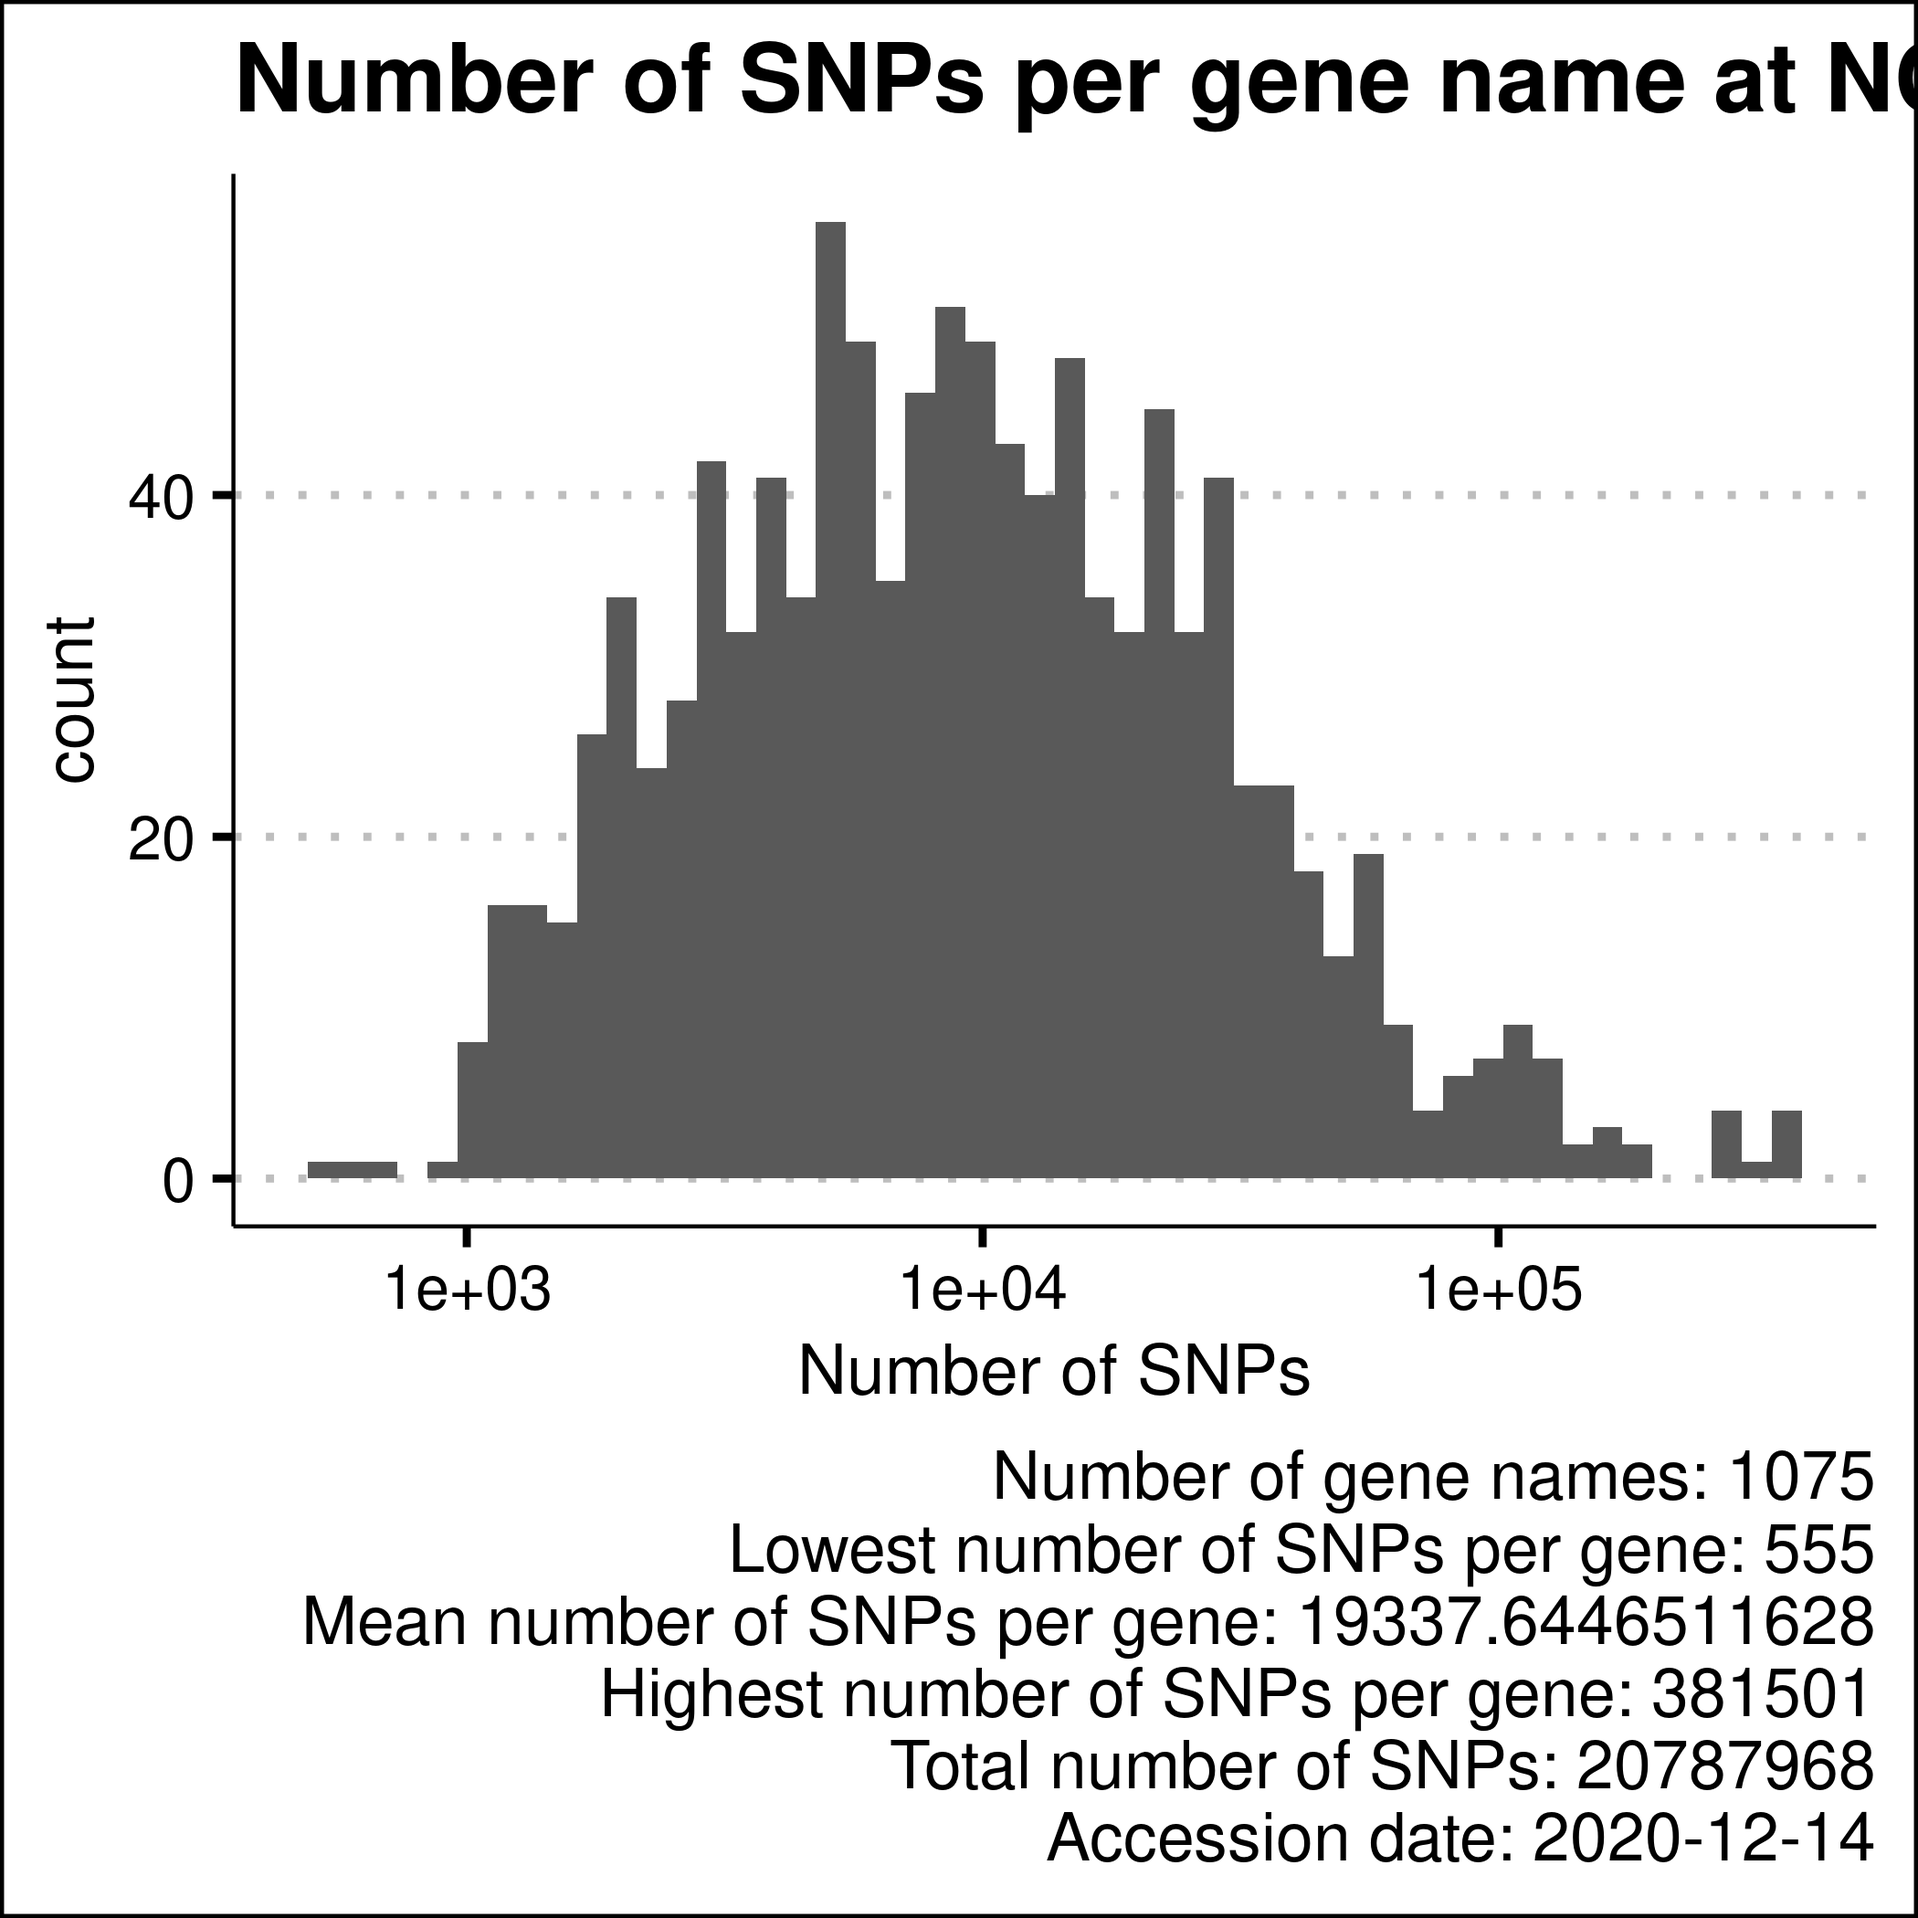
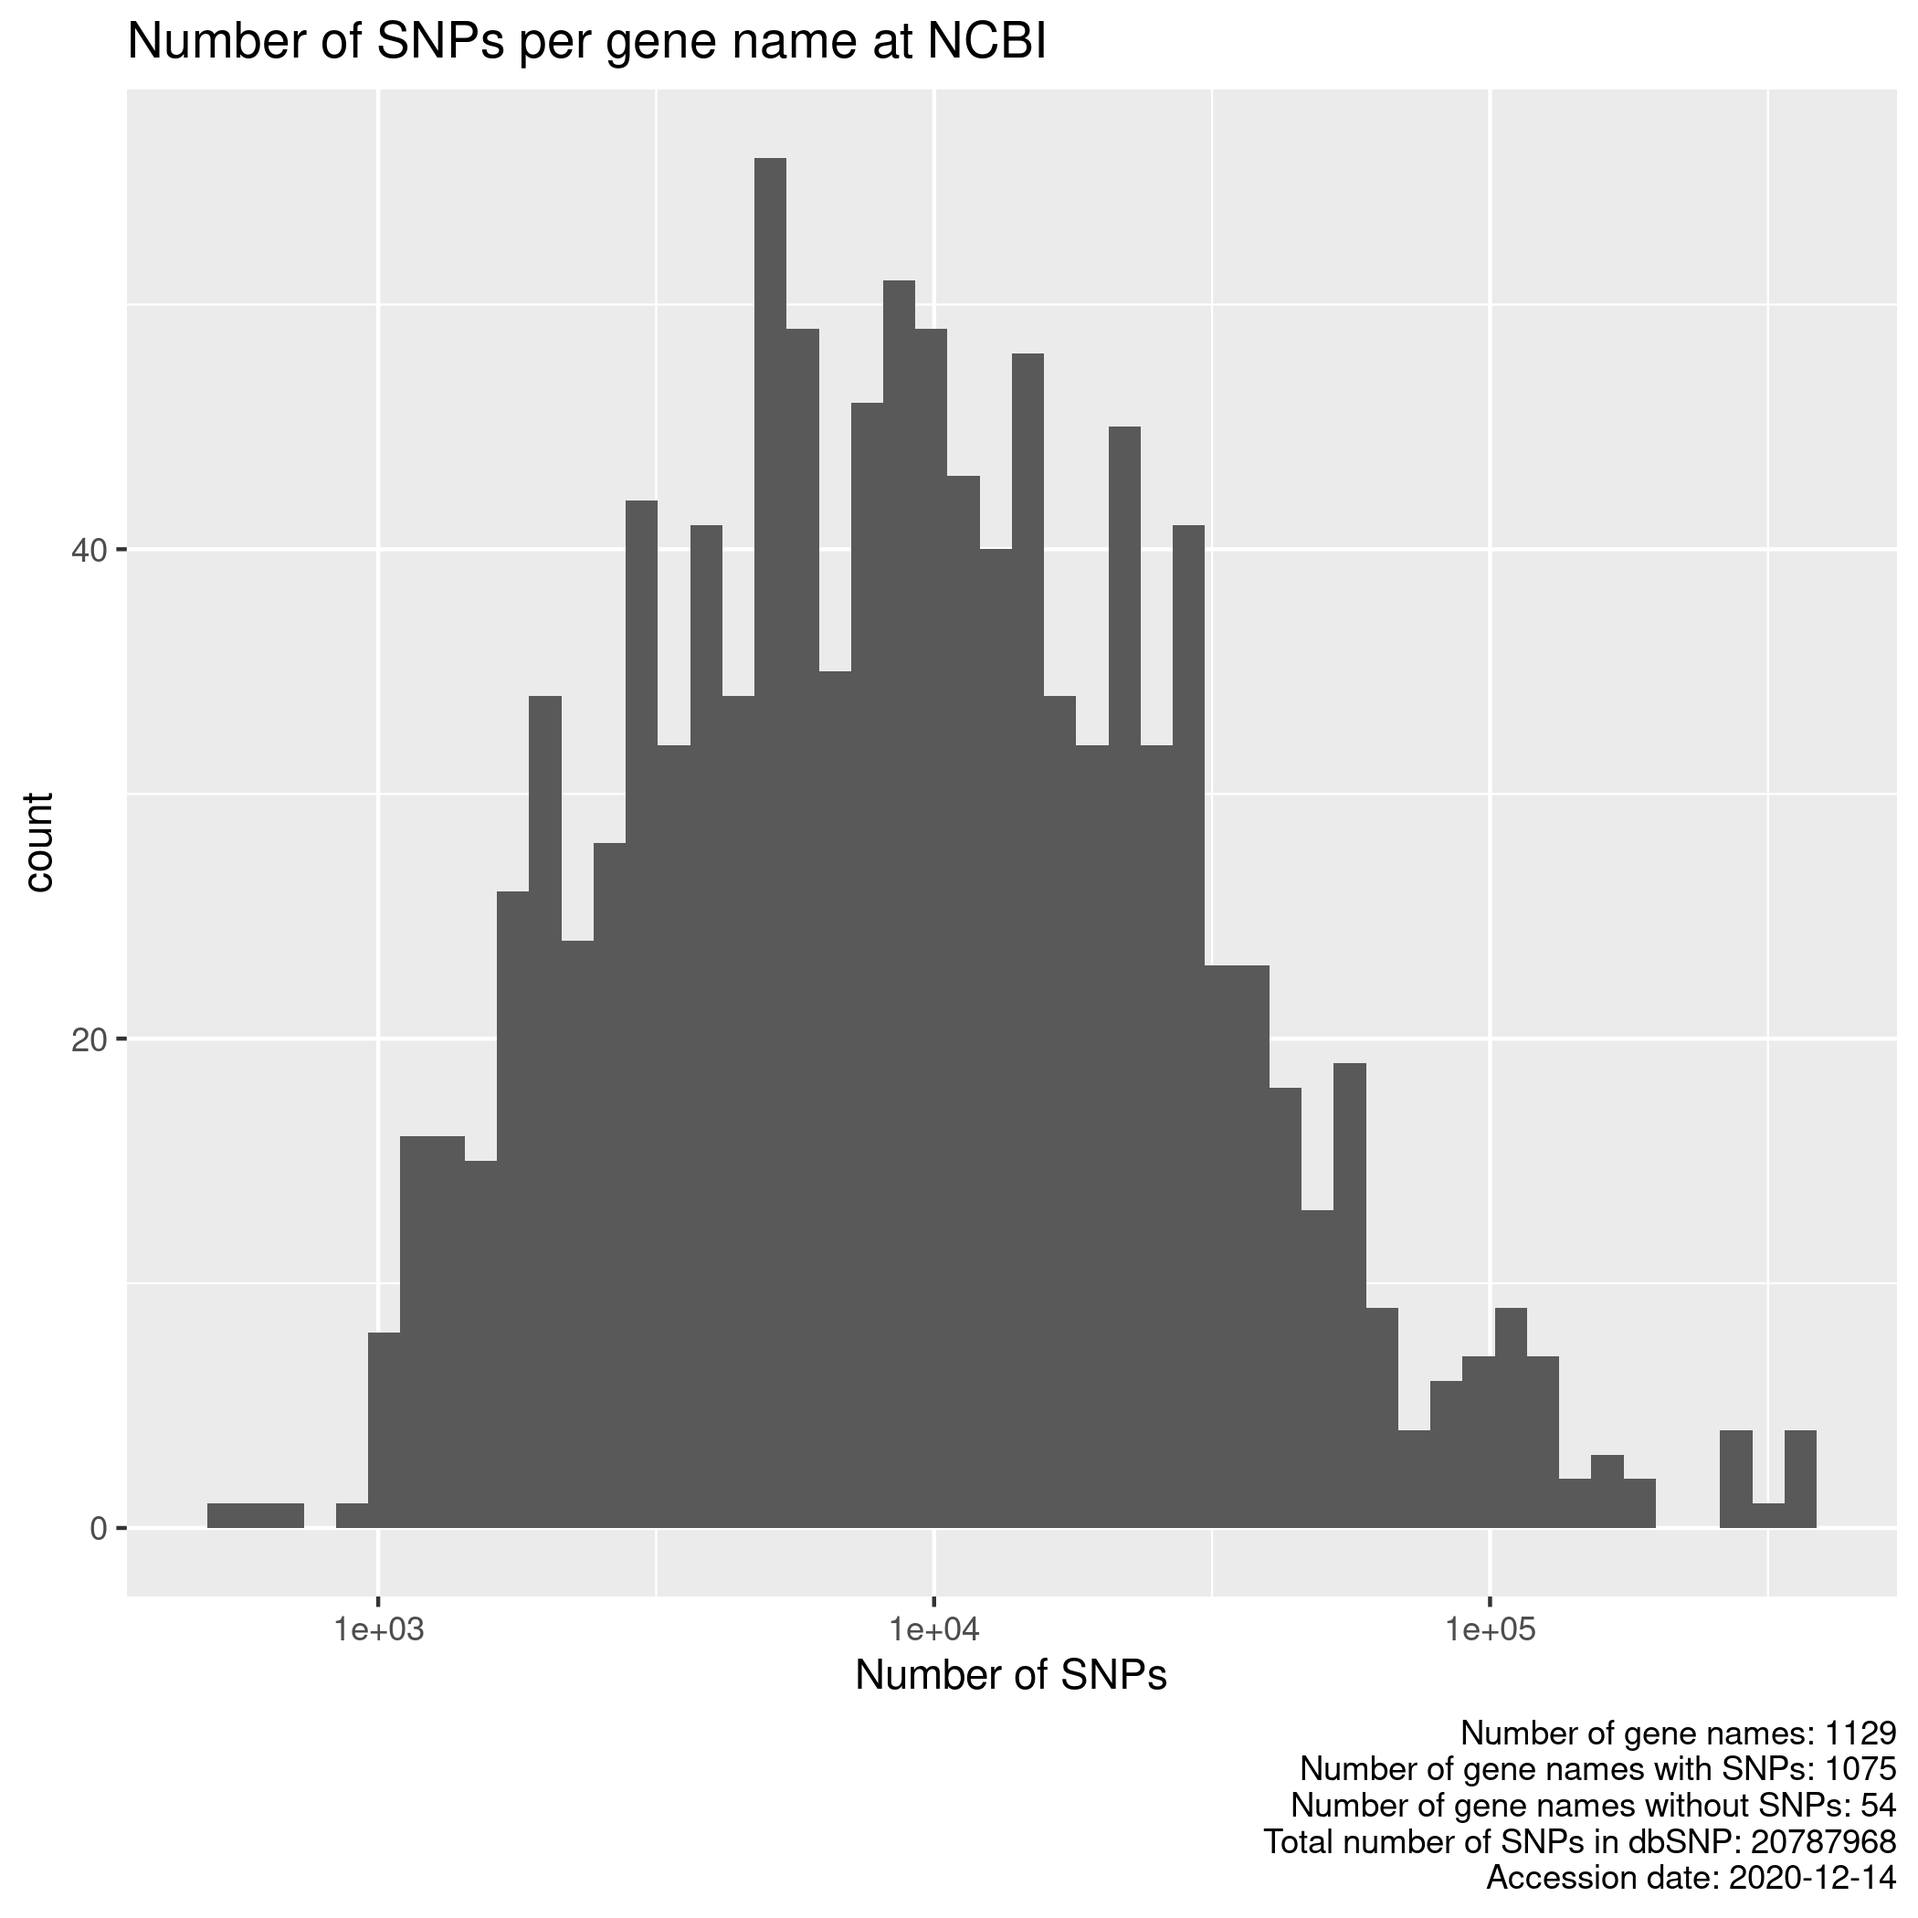
Add number of SNPs in NCBI database

diff --git a/bbbq_article.tex b/bbbq_article.tex
@@ -276,8 +276,11 @@ Per gene name, the 'dbSNP' NCBI database is queried for
 variations associated with the gene name. 
 
 The number of variations
-was limited to the first 250 variations per gene,
-resulting in 282250 variations. 
+was limited to the first 250 variations per gene (see figure
+\ref{fig:snps_per_gene_name_ncbi} for the number of SNPs
+within the dbSNP database for these gene names),
+resulting in \richel{282250} variations.
+
 A variation needs not always be a SNP,
 as dbSNP also catalogs other DNA alterations, such as, among others, insertions,
 deletions and tandem repeats.
@@ -527,20 +530,22 @@ In the final set of experiments,
 we addressed the question whether TMHs 
 would be more evolutionary conserved than soluble proteins regions 
 by comparing the occurrences of SNPs in the genome coding 
-for TMHs and soluble protein regions. 
-We obtained 1,129 gene names associated with the phrase 'membrane protein'.
+for TMHs and soluble protein regions within membrane proteins. 
+We obtained 1,129 gene names associated with the phrase 'membrane protein',
+which are genes for both membrane-associated proteins (MAPs, no TMH) and 
+transmembrane proteins (TMPs, at least 1 TMH).
 These genes are linked to 4,811 protein isoforms, 
-of which 2,568 are predicted to be transmembrane proteins (TMPs),
-where the others are predicted to be membrane-associated proteins.
+of which 2,568 are predicted to be TMPs (hence 
+2,243 proteins are predicted to be MAPs).
 We obtained 38,882 SNPs that resulted in an
 amino acids substitution, of which 21,738 were located 
-in predicted transmembrane proteins.
+in predicted TMPs.
 Per protein, we calculated two percentages: 
-(1) the percentage of the gene coding for TMHs, 
+(1) the percentage of the protein coding for TMHs, 
 and (2) the percentage of SNPs occurring in TMHs.
 Each percentage pair was plotted in figure \ref{fig:f_snps_found_and_expected}.
 We performed a linear regression analyses on the data twice,
-one with and one without membrane-associated proteins,
+one with and one without MAPs,
 and added a 95\% confidence interval for both of these regressions.
 Would the confidence interval of the regression line 
 overlap with the line of equality,
@@ -550,53 +555,34 @@ than in TMHs.
 The effect size is that per 1 SNP found in soluble protein
 domains, one finds 0.925 SNPs in TMHs.
 
-To statistically test whether SNPs occur just as likely in soluble as
-in transmembrane protein domains, we used a Poisson binomial
-distribution.
-We calculated the number of SNPs that are expected to be
-found in TMHs by chance, $E(n_{SNP\_TMH})$, when including
-and excluding soluble proteins (with symbols
-$E(n_{SNP\_TMH}^{+})$ and $E(n_{SNP\_TMH}^{-})$ respectively).
-The number of SNPs that are expected to be
-found in TMHs by chance when including soluble proteins,
-$E(n_{SNP\_TMH}^{+})$ 
-equals the number of (all) SNPs, $n_{SNP}^{+} = 38,882$, multiplied by the fraction
-of all proteins that are TMH, $f_{TMH}^{+} = 9.96\%$,
-resulting in 
-$E(n_{SNP\_TMH}^{+}) = n_{SNP}^{+} \cdot f_{TMH}^{+} \approx 3873$
-The number of SNPs that are expected to be
-found in TMHs by chance when excluding soluble proteins,
-$E(n_{SNP\_TMH}^{-})$ 
-equals the number of SNPs in TMHs, $n_{SNP}^{-} = 21,738$, 
-multiplied by the fraction of the TMPs that are TMH, $f_{TMH}^{-} = 18.66\%$,
-$E(n_{SNP\_TMH}^{-}) = n_{SNP}^{-} \cdot f_{TMH}^{-} \approx 4056$.
-The discrepancy between the two expectations
-is caused by the distribution of SNPs over the soluble and
-transmembrane proteins: 
-there are 38,882 SNPs found in 4811 proteins (i.e. $\approx 8.08$ SNP per protein),
-of which 21,738 SNPs in 2568 TMPs (i.e. $\approx 8.46$
-SNP per TMP).
+To statistically test whether SNPs occur 
+just as likely in soluble domains as
+in TMHs, we first calculated the number of SNPs that are expected to be
+found in TMHs of TMPs by chance, $E(n_{SNP\_TMH})$,
+equals the number of SNPs in TMHs, $n_{SNP} = 21,738$, 
+multiplied by the fraction of the TMPs that are TMH, $f_{TMH} = 18.66\%$,
+$E(n_{SNP\_TMH}) = n_{SNP} \cdot f_{TMH} \approx 4056$.
+
+The actually number of SNPs found in TMHs
+was $n_{SNP\_TMH} = 3,903$, which is lower than the expectation
+of $E(n_{SNP\_TMH}) \approx 4056$.
+To test whether this difference is significant,
+we used a binomial Poisson distribution, where the number of trails,
+$n$ equals the number of SNPs, which is 21,738. The probability of success
+for TMP $i$, $p\_i$, is the percentage of each TMP that is TMH.
+We calculated the probability of having 3,903 or less successes.
+We used the type I error cut-off value of $\alpha = 2.5\%$.
+The chance to find, within TMHs, this amount or less SNPs 
+equals \richel{recalculate}
+% $1.6201 \cdot 10^{-9}$.
+
+Using a alpha value of $0.05$, as is common practice for an uninformed
+expectation, we conclude that there are significantly less SNPs
+in TMHs as expected by chance.
 
 \richel{How many SNPs in TMHs?}
 See figure \ref{fig:f_tmh_ncbi} to see which percentages
 are TMH of the transmembrane proteins.
-
-We first calculated the expected number of SNPs
-found in TMHs, which is 61,457 SNPs \richel{GvdB: I don’t completely follow this. Based on what?} and multiplied this number by 6.8\% 
-of all proteins being a TMH, resulting in the null hypothesis
-of 4203 SNPs occurring in TMHs. 
-Note that including or excluding
-the membrane associated proteins 
-has no effect on this statistical test, as the chance 
-of a successful trial is zero (there is zero chance
-to find a SNP in TMHs if there are none) \richel{GvdB: Also too complex for biologists. Explain in bit more words}.
-The actually number of SNPs found in TMHs
-was 3889, which is lower than the null hypothesis. 
-The chance to find, within TMHs, this amount or less SNPs 
-equals $1.6201 \cdot 10^{-9}$.
-Using a alpha value of $0.05$, as is common practice for an uninformed
-expectation, we conclude that there are significantly less SNPs
-in TMHs as expected by chance.
 
 \begin{figure}[!htbp]
   \includegraphics[width=\textwidth]{ncbi_peregrine_results/fig_f_snps_found_and_expected_per_spanner.png}
@@ -1005,6 +991,16 @@ MHC-II (see table \ref{tab:ic50_binders_mhc2}).
 %%%%%%%%%%%%%%%%%%%%%%%%%%%%%%%%%%%%%%%%%%%%%%%%%%%%%%%%%%%%%%%%%%%%%%%%%%%%%%%%
 \subsection{Evolutionary conservation}
 %%%%%%%%%%%%%%%%%%%%%%%%%%%%%%%%%%%%%%%%%%%%%%%%%%%%%%%%%%%%%%%%%%%%%%%%%%%%%%%%
+
+
+\begin{figure}[!htbp]
+  \includegraphics[width=\textwidth]{ncbi_peregrine_results/fig_snps_per_gene_name_ncbi.png}
+  \caption{
+    Distribution of the number of SNPs per gene name in the NCBI database.
+  }
+  \label{fig:snps_per_gene_name_ncbi}
+\end{figure}
+
 
 \begin{figure}[!htbp]
   \includegraphics[width=\textwidth]{ncbi_peregrine_results/fig_f_tmh_ncbi.png}
